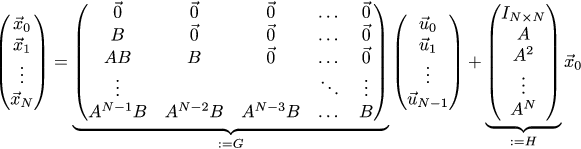
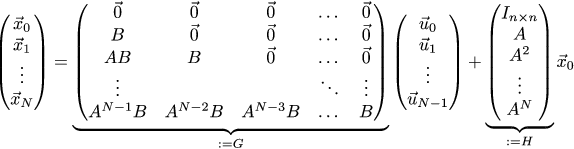
lqr2

diff --git a/tutorials/lqr2-observer/f060.tex b/tutorials/lqr2-observer/f060.tex
@@ -13,7 +13,7 @@ A^{N-1}B & A^{N-2}B & A^{N-3}B & \dots  & B       \\
 \end{pmatrix}}_{:= G}
 \begin{pmatrix}\vec{u}_0\\ \vec{u}_1 \\ \vdots \\ \vec{u}_{N-1}\end{pmatrix} 
 +
-\underbrace{\begin{pmatrix}I_{N\times N}\\A\\A^2\\\vdots\\A^N\end{pmatrix}}_{:= H}\vec{x}_0
+\underbrace{\begin{pmatrix}I_{n\times n}\\A\\A^2\\\vdots\\A^N\end{pmatrix}}_{:= H}\vec{x}_0
 $$
 \end{document}
 
